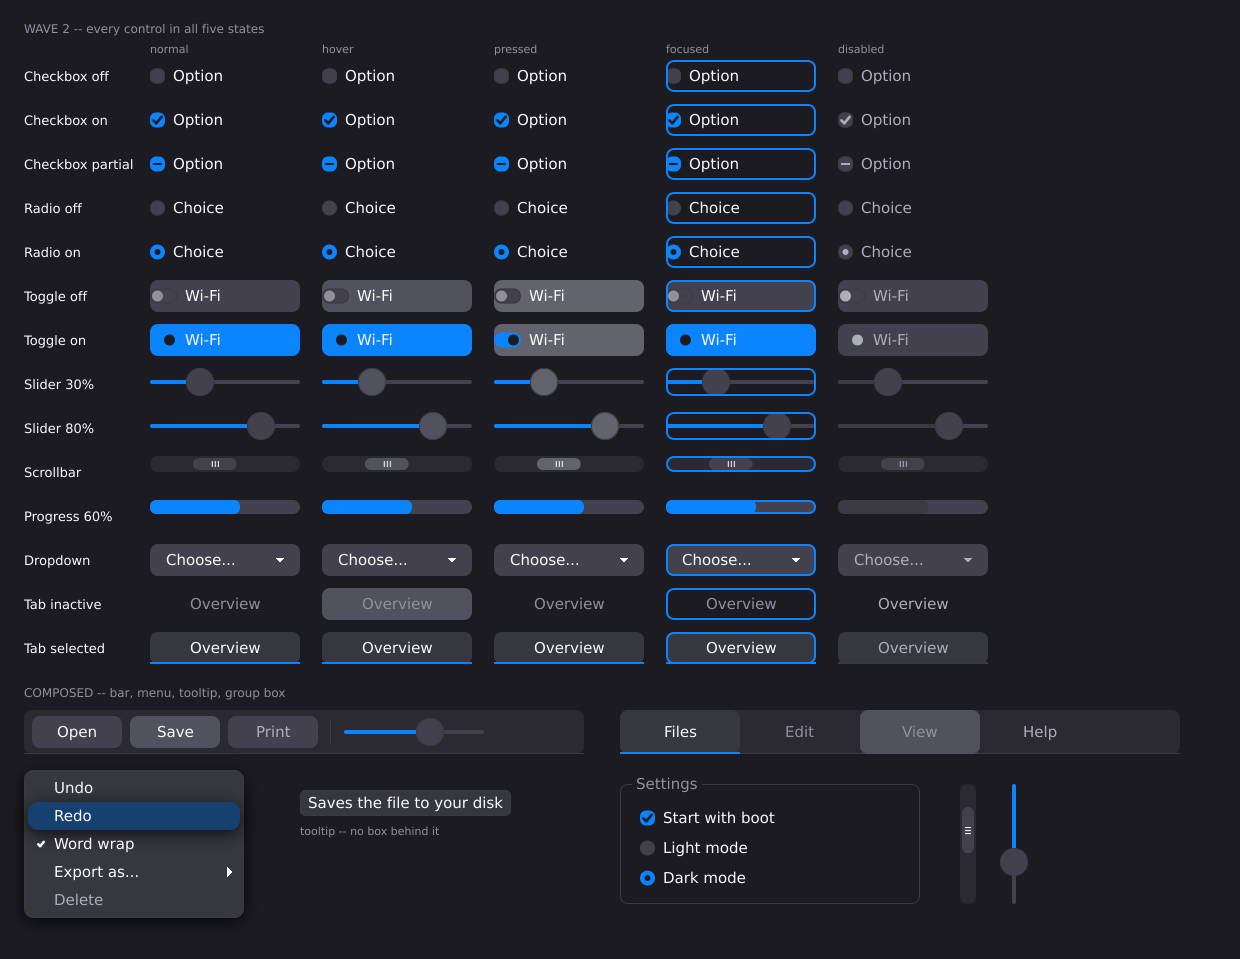
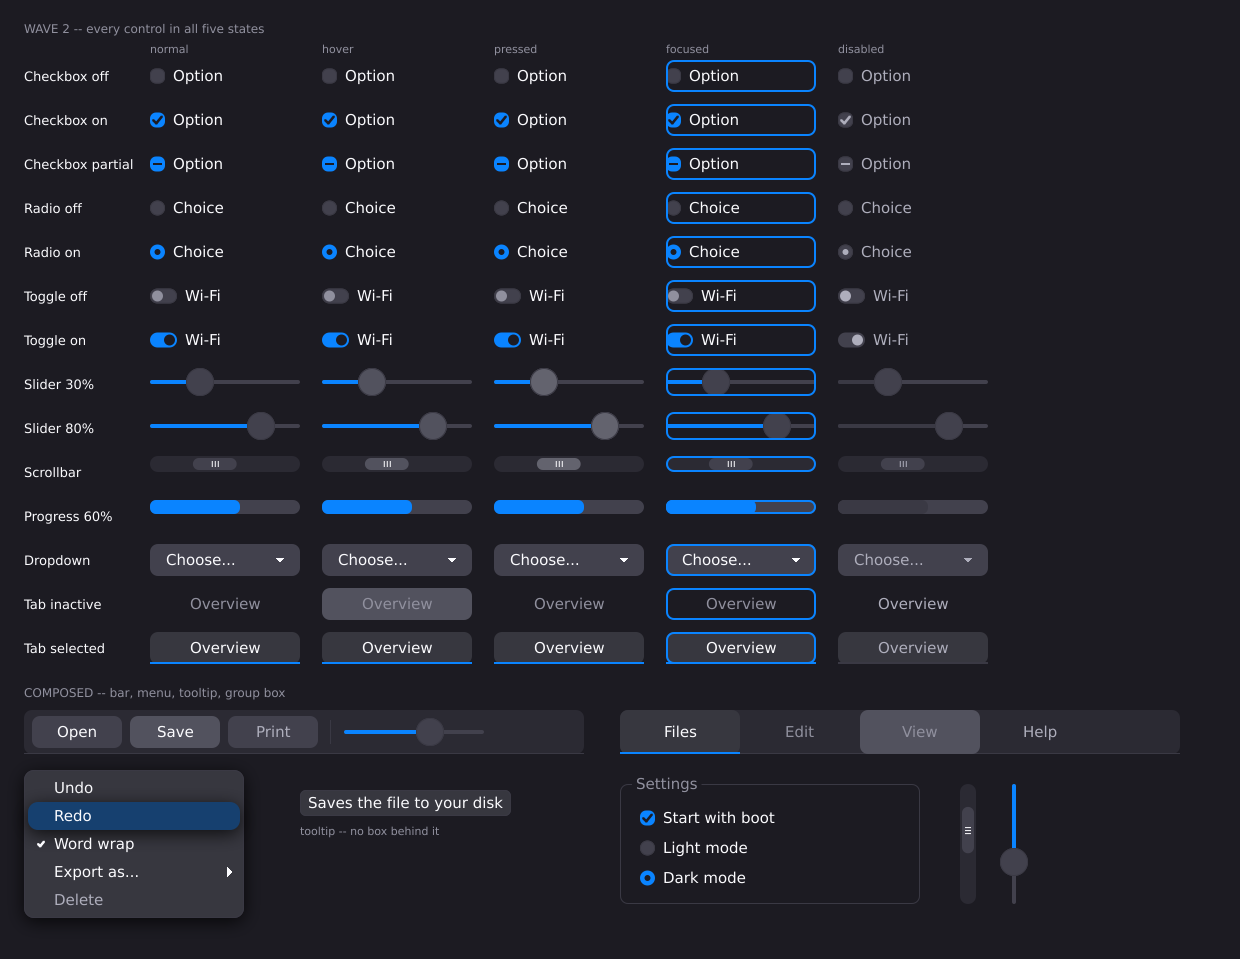
Belege 03/04 neu gemalt: die Schalterzeile traegt keine Flaeche mehr
Nachgemessen in den ausgelieferten Bildern selbst, im Streifen ueber
der Pille (y 282..288, x 150..599): hell 2830 fremde Punkte vorher, 51
nachher; dunkel 2832 -> 51. Was bleibt, ist die Kante der Pille.
Die Zahl steht in RUN.md, dazu die Fassungen der Werkzeugleiste aus
Abschnitt 19d.

Changed region(s): [[0.1226, 0.2722, 0.7968, 0.3931]]

diff --git a/RUN.md b/RUN.md
@@ -369,7 +369,7 @@ which program writes it.
 | File in `.gauntlet-shots/` | written by | what it has to show |
 |---|---|---|
 | `01/02-wave1-grundelemente-{hell,dunkel}.png` | `tools/fui/gallery_main.fi` | bar 5: button in five states, six style looks, label alignment and sizes, the box with the stretchy address field (the address stands there COMPLETE, measured against the field), the 6x2 grid, the window buttons from the core at 1x/2x/3x -- nothing overlaps, nothing is cut off, readable in light AND dark |
-| `03/04-wave2-widgets-{hell,dunkel}.png` | `tools/fui/gallery2_main.fi` | bar 5: checkbox, radio, switch, slider, progress, spinner, tooltip, tabs, menu -- each at its measured size, the tooltip without the grey box behind it |
+| `03/04-wave2-widgets-{hell,dunkel}.png` | `tools/fui/gallery2_main.fi` | bar 5: checkbox, radio, switch, slider, progress, spinner, tooltip, tabs, menu -- each at its measured size, the tooltip without the grey box behind it, and **the switch without a grey slab behind its label**: `KIND_TOGGLE` stood in both branches of `render.def_bg_state`/`def_bg`, so the documented rule ("it colours its box, not its row") silently lost to the order of the tests. Measured in these two pictures, in the strip above the pill (y 282..288, x 150..599): **2830 foreign pixels before, 51 after** in light, 2832 -> 51 in dark -- what is left is the edge of the pill itself. The check for it is section 10 of `tools/fui/wave2_main.fi`, on a real canvas and with the counter-proof that a BUTTON of the same size does carry 790 points of surface |
 | `05/06-wave3-widgets-{hell,dunkel}.png` | `tools/fui/gallery3_main.fi` | bar 5: list, table, tree, card, badges, date and colour picker, modal dialog over the scrim -- and the dialog/menu shadow that `render` takes from `effect.drop_shadow_round` |
 | `07/08-text-{hell,dunkel}.png` | `tools/fui/gallery4_main.fi` | bar 5: line breaking, ellipsis, outline and text shadow -- no text runs out of its box |
 | `09/10-bild-svg-{hell,dunkel}.png` | `tools/fui/artshow_main.fi` | the round BILD+SVG: the same SVG re-rastered per size (12..64) instead of scaled, `currentColor`, pictures with alpha over four grounds |
